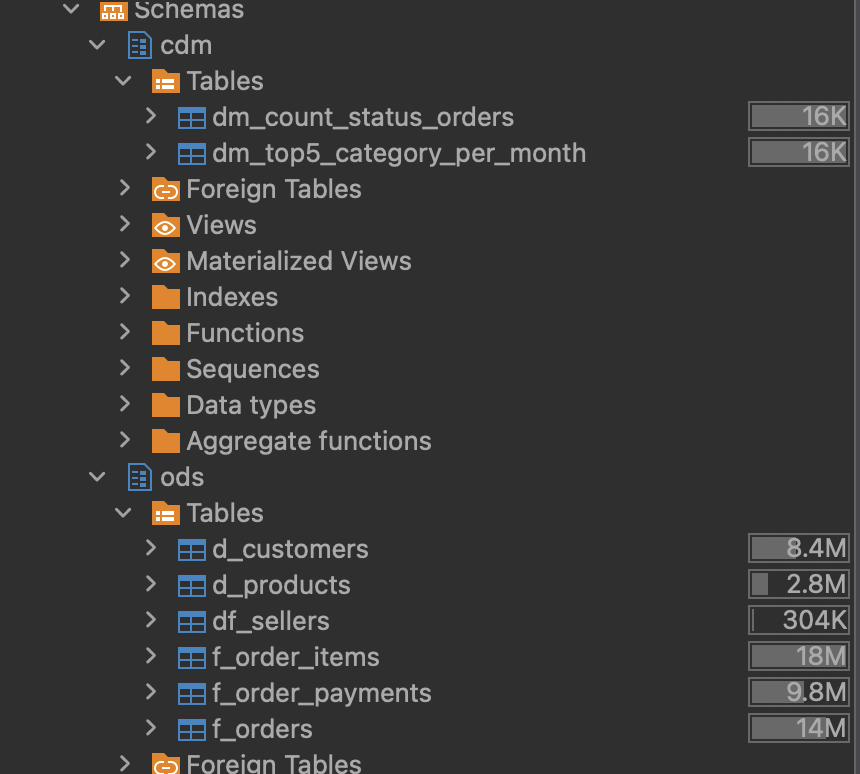
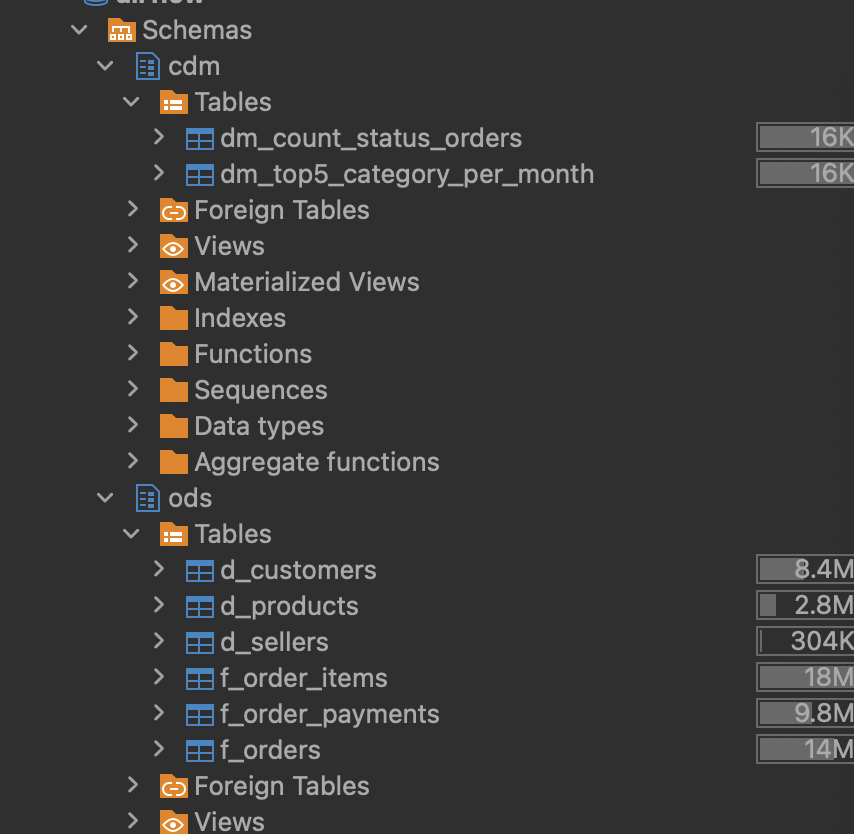
fix spark bugs

Changed region(s): [[0.0609, 0.0, 0.7002, 1.0], [0.8525, 0.0, 1.0, 1.0]]

diff --git a/dags/cdm_dag.py b/dags/cdm_dag.py
@@ -5,43 +5,43 @@ from airflow.models import Variable
 from airflow.providers.apache.spark.operators.spark_submit import SparkSubmitOperator
 
 s3_env_values = Variable.get("s3_env_values", deserialize_json=True)
-spark_conf= Variable.get("spark_conf", deserialize_json=True)
-db_url=Variable.get("db_url", deserialize_json=True)
-db_properties=Variable.get("db_properties",deserialize_json=True)
-env_vars = {**s3_env_values,
-                  **db_url,
-                  "DB_PROPERTIES": json.dumps(db_properties)}
+spark_conf = Variable.get("spark_conf", deserialize_json=True)
+db_url = Variable.get("db_url", deserialize_json=True)
+db_properties = Variable.get("db_properties", deserialize_json=True)
+env_vars = {
+    **s3_env_values,
+    **db_url,
+    "DB_PROPERTIES": json.dumps(db_properties),
+}
 
 default_args = {
     'owner': 'whoisortem',
-    'start_date': None,
     'retries': 3,
     'retry_delay': timedelta(minutes=5),
-    'catchup':False,
-    'schedule_interval':None
 }
 
 with DAG(
     dag_id='brazilian_ecommerce_cdm_dag',
     default_args=default_args,
+    start_date=datetime(2026, 5, 23),
+    schedule_interval=None,
+    catchup=False,
 ) as dag:
 
     task_dm_count_status_orders = SparkSubmitOperator(
         task_id='transform_dm_count_status_orders',
         application='/opt/airflow/spark_jobs/dm_count_status_orders.py',
-        conn_id='spark_local', 
-        env_vars= env_vars,
-        conf=spark_conf
-)
+        conn_id='spark_local',
+        env_vars=env_vars,
+        conf=spark_conf,
+    )
 
-    # Таска 2: Orders
     task_dm_top5_category_per_month = SparkSubmitOperator(
         task_id='transform_dm_top5_category_per_month',
         application='/opt/airflow/spark_jobs/dm_top5_category_per_month.py',
-        conn_id='spark_local', 
+        conn_id='spark_local',
         env_vars=env_vars,
-        conf=spark_conf
-)
+        conf=spark_conf,
+    )
 
-task_dm_count_status_orders >> task_dm_top5_category_per_month
-
+    task_dm_count_status_orders >> task_dm_top5_category_per_month

diff --git a/spark_jobs/dm_top5_category_per_month.py b/spark_jobs/dm_top5_category_per_month.py
@@ -26,8 +26,7 @@ def main():
                  .groupBy(
                      col("do.order_purchase_year"),
                      col("do.order_purchase_month"),
-                     col("dp.product_category_name"),
-                    current_timestamp().alias("__update_dttm"))
+                     col("dp.product_category_name"))
                  .agg(countDistinct(col("do.order_id__pk")).alias("order_qty"))
                  .where(col("order_qty") > 1)
                  .withColumn("rank",row_number()
@@ -36,6 +35,7 @@ def main():
                                                      .orderBy(col("order_qty").desc())))
                  .filter(col("rank") <= 5)
                  .drop("rank")
+                 .withColumn("__update_dttm",current_timestamp())
                 )
 
     df_result.write \

diff --git a/spark_jobs/f_orders.py b/spark_jobs/f_orders.py
@@ -3,10 +3,6 @@ import json
 from pyspark.sql import SparkSession
 from pyspark.sql.functions import col, current_timestamp, year, month
 
-s3_path_staging = os.getenv("S3_PATH_STAGING")
-s3_path_ods = os.getenv("S3_PATH_ODS")
-datafolder_name = os.getenv("DATAFOLDER_NAME")
-
 def main():
 
     s3_path_staging = os.getenv("S3_PATH_STAGING")

diff --git a/spark_jobs/f_order_payments.py b/spark_jobs/f_order_payments.py
@@ -3,10 +3,6 @@ import json
 from pyspark.sql import SparkSession
 from pyspark.sql.functions import col, current_timestamp
 
-s3_path_staging = os.getenv("S3_PATH_STAGING")
-s3_path_ods = os.getenv("S3_PATH_ODS")
-datafolder_name = os.getenv("DATAFOLDER_NAME")
-
 def main():
 
     s3_path_staging = os.getenv("S3_PATH_STAGING")

diff --git a/spark_jobs/f_order_items.py b/spark_jobs/f_order_items.py
@@ -2,10 +2,6 @@ import os
 import json
 from pyspark.sql import SparkSession
 from pyspark.sql.functions import col, current_timestamp, year, month
-
-s3_path_staging = os.getenv("S3_PATH_STAGING")
-s3_path_ods = os.getenv("S3_PATH_ODS")
-datafolder_name = os.getenv("DATAFOLDER_NAME")
     
 def main():
 

diff --git a/spark_jobs/d_sellers.py b/spark_jobs/d_sellers.py
@@ -10,7 +10,7 @@ def main():
     datafolder_name = os.getenv("DATAFOLDER_NAME")
     db_url = os.getenv("DB_URL")
     db_properties = json.loads(os.environ.get("DB_PROPERTIES"))
-    table = 'df_sellers'
+    table = 'd_sellers'
 
     spark = SparkSession.builder.getOrCreate()
 
